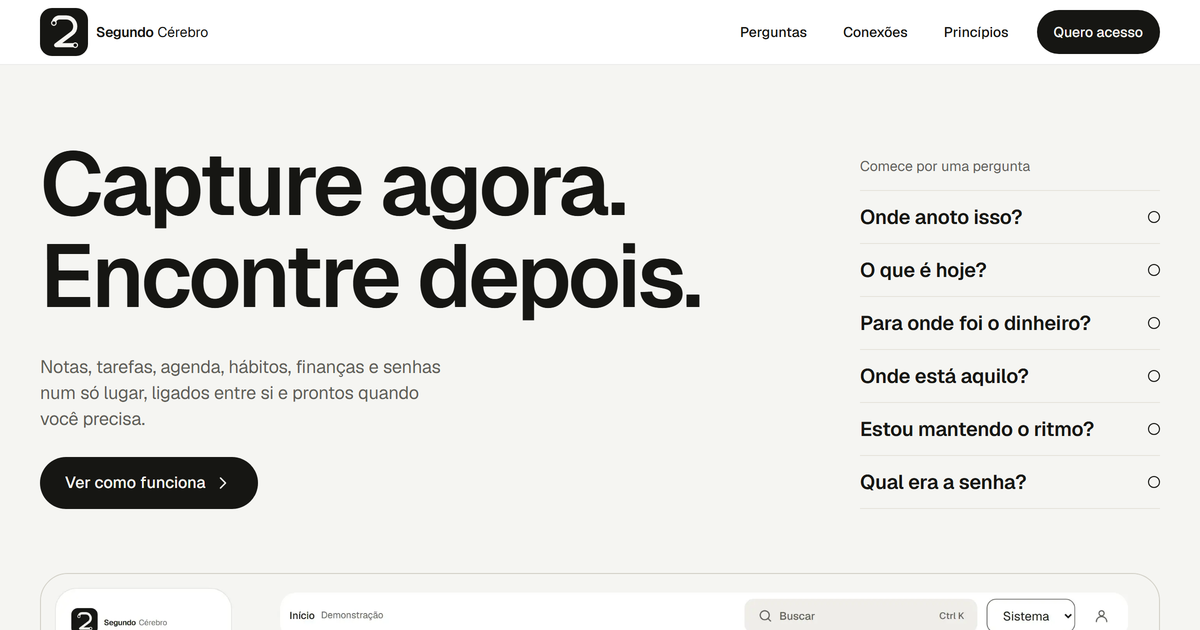
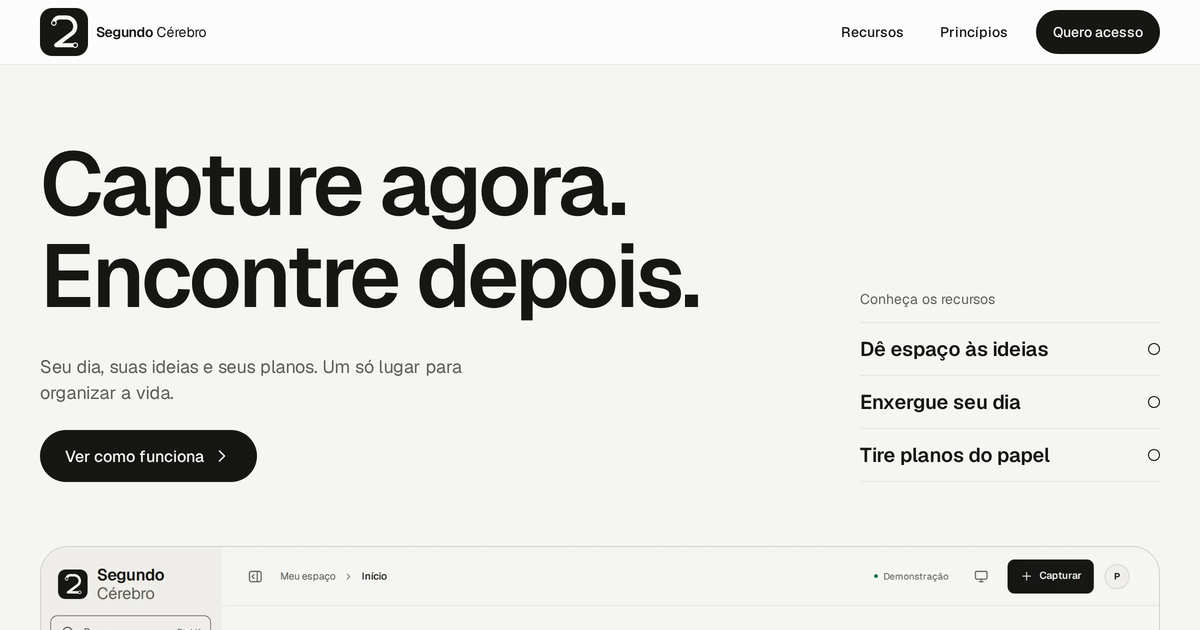
Registra validação dos layouts e incorpora OG qualificada

diff --git a/docs/implementation/refinamento-calendario-financeiro-auth-20261026.md b/docs/implementation/refinamento-calendario-financeiro-auth-20261026.md
@@ -1,0 +1,36 @@
+# Calendário, Financeiro e acesso — refinamento de 26/10/2026
+
+Pedido do mantenedor: reproduzir o layout do protótipo no Calendário/Financeiro e melhorar composição, tema e acesso às políticas no login. Referência: [doc17](../planejamento/17-evolucao-prototipo/prototipo/) e [doc18](../planejamento/18-convergencia-prototipo-20261025/README.md). Base desta rodada: `abb453bc5a6cd4385f254eebf57bfaef8120ad39`, que concluiu 23/23 workflows; esses resultados não certificam o novo lote.
+
+| Superfície | Correção | Contratos preservados |
+|---|---|---|
+| Calendário | Lateral de Lista mais ampla, cartões com data/fonte separadas, Dia linear expansível e seletores mobile de semana/mês. | OAuth de leitura, duas contas, fontes, fuso, cache parcial, notas, Drawer, URLs e Entitlements. |
+| Financeiro | Compactação das faixas de controle, resumo e tabela; filtros agrupados e explicações secundárias recolhíveis, conforme o protótipo. | Valores/competência, máscara, ordenação, paginação, séries, faturas, limites, reservas e imagens de Metas. |
+| Acesso | Moldura ampla no desktop e coluna única no celular; três opções diretas de tema; links de políticas e suporte. | Autofill, revelação de senha, disponibilidade, foco/erros, loading, retorno seguro e recuperação/troca de senha. |
+
+## Ciência das políticas
+
+O mantenedor confirmou pelo questionário a leitura obrigatória no formulário de login. A checkbox inicia desmarcada, tem alvo de 44 px, preserva seu estado após rejeição e só aparece no sign-in disponível. Links separados abrem [Termos](../../src/app/termos-de-servico/page.tsx) e [Privacidade](../../src/app/privacidade/page.tsx) em nova aba, sem descartar campos. O rodapé também mantém esses destinos e o suporte informado pelo mantenedor.
+
+Essa confirmação é uma validação da interface. Não cria recibo legal versionado no banco, não representa consentimento genérico para tratamento de dados e não autoriza marketing. O servidor conserva o contrato de credenciais; o registro jurídico persistido do futuro cadastro continua no escopo comercial próprio. Recuperar/definir/trocar senha não ganham nova exigência.
+
+## Diferenças justificadas do protótipo
+
+- O DTO de Calendário não fornece descrição nem texto da nota; esses parágrafos não serão inventados. Participantes conservam as iniciais permitidas, sem nova coleta de fotos.
+- A lateral de 330 px só aparece quando comporta os sete alvos de 44 px. Em larguras menores, filtros recolhíveis e seletores locais preservam acesso sem overflow da página.
+- Em 320 px, setas → Hoje usam ordem visual igual ao DOM; nenhuma correção por tabindex positivo.
+- Conteúdo financeiro e imagens de Metas continuam derivados dos registros disponíveis. A referência visual não autoriza fabricar valores, metas ou uploads.
+
+## Validação por etapa
+
+**Revisado localmente:** Auth, Calendário e Financeiro por autoria, Root e peer independente. O lote agregado de 11 arquivos/204 testes passou em Node 24, com heap de 256 MB e um worker: contratos SSR do formulário, Calendário e cálculos/modelos financeiros. Os 22 contratos estáticos adicionais do Calendário também passaram na entrega da frente. As verificações locais usam a instalação Vitest 4.1.11; o CI fará a instalação canônica do lockfile. Nenhum build, browser de testes, PostgreSQL ou Docker foi iniciado localmente.
+
+**Preparado para CI:** layouts em 320/390/768/1280/1440 px conforme a superfície, claro/escuro, teclado, radios, checkbox negativa sem envio, rejeição com campos preservados, datas sem mudar vista, expansão/Drawer, overflow e fontes/estado parcial. Os helpers nativos de login passam a marcar a ciência, preservando seus oráculos de sessão e efeitos. Testes pesados permanecem no GitHub.
+
+**Revisão financeira:** a tabela de Lançamentos mantém as seis colunas visíveis do protótipo atual; o mosaico de inspiração não substitui a captura e o código do doc17. O painel de categoria/ordenação conserva abertura e foco ao limpar o último filtro. Os oito arquivos da entrega coincidem após normalização LF; o Git removeu somente um CR final em cada um dos dois CSS. Nenhum conteúdo foi substituído para atender hashes de transporte.
+
+**Portões locais:** lint dos 31 arquivos TS/TSX/MJS alterados aprovado sem warnings; detector Impeccable sem achados nos alvos das três superfícies; scanner de segredos aprovado em 2.774 arquivos versionáveis, sem imprimir valores; whitespace aprovado. Três contratos de inventário de fontes Auth/Admin e oito mocks de login positivo/negativo passaram, sem iniciar serviços. O fechamento derivado inclui o novo seletor de tema: Admin 543 fontes/61 dependências; recuperação 269/60, sem adicionar o fixture de interface às entradas nativas.
+
+**Ainda pendente nesta redação:** Typecheck/CI próprios e comparação visual da candidata integrada. A existência dos testes não equivale a execução aprovada. Registrar os próximos resultados por SHA e deployment; não atualizar goldens para esconder diferenças.
+
+Merge e deploy de produção continuam bloqueados. Somente homologação isolada está autorizada. Sem migration, alteração de credenciais, contratação, checkout Asaas, novo Drive ou retomada do restore.

diff --git a/docs/implementation/landing-og-capture-20261026.md b/docs/implementation/landing-og-capture-20261026.md
@@ -76,3 +76,9 @@ O código OG não optava pela política de pré-busca da câmera. O novo delta r
 Demo DOM/SSR, dois documentos reais, os400ms preexistentes, prontidão antes/depois, GETs fatais, outputs3, prazos e cleanup permanecem. Não há exceção para requisição abortada, nova espera genérica, retry ou captura local. Os138contratos relacionados em oito arquivos passaram na Root, incluindo negativos da política/registro/primeiro erro; a captura real corrigida exige Source/run próprios.
 
 **Pendente:** build da nova candidata; captura OG no CI; qualificação independente dos três membros; revisão visual final e cópia exata. A OG histórica continua ativa até essa cópia final. O PASS da Entrada e os contratos puros não certificam a OG.
+
+### Qualificação OG3 do Source abb453b
+
+O [push40393844479/a1](https://github.com/kauanbarateli/Segundo-Cerebro/actions/runs/40393844479), Source `abb453bc5a6cd4385f254eebf57bfaef8120ad39`, concluiu a captura e o upload no job `121821539146`. Root reconferiu metadados oficiais do run, job e artifact `12685184241`, o digest do ZIP e os três membros originais. O PNG de 1200 × 630 foi inspecionado visualmente e os três arquivos copiados sem edição de pixels. A [qualificação](evidence/landing-og-abb453b-20261026/qualification.json) preserva o recibo original; a [revisão Root](evidence/landing-og-abb453b-20261026/root-review.json) registra a conferência posterior.
+
+Esse resultado substitui a pendência de OG do parágrafo anterior somente para esse Source. Ele não certifica os refinamentos posteriores de Auth, Calendário e Financeiro nem o comportamento hospedado da landing.
